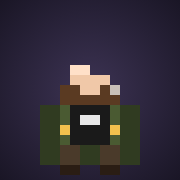
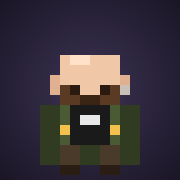
Luca: cabeça careca completa e olhos visíveis
Claude-Session: https://claude.ai/code/session_01YBA9s8XnYJneddHbd6xUF3

Changed region(s): [[0.2778, 0.3056, 0.7222, 0.5278], [0.4444, 0.5278, 0.5556, 0.5833], [0.3889, 0.4722, 0.4444, 0.5278]]

diff --git a/js/pessoas/21-amigos-criadores.js b/js/pessoas/21-amigos-criadores.js
@@ -150,12 +150,14 @@ const CREW_LOOKS = {
       acc: "nenhum",
       extra: (dir) => {
         const B = "#5a3a22";
-        if (dir === "up") return [[5, 5, 6, 1, "#e0b898"]];
+        const S = "#f0c8a8";
+        const head = [[5, 4, 6, 2, S], [5, 6, 1, 2, S], [10, 6, 1, 2, S], [4, 6, 1, 2, "#e0b090"], [11, 6, 1, 2, "#e0b090"]];
+        if (dir === "up") return head.concat([[5, 6, 6, 3, S], [7, 4, 2, 1, "#ffe0c8"]]);
         const side = dir === "left" || dir === "right";
-        const beard = side ? [[7, 8, 4, 1, B], [8, 9, 3, 1, B], [8, 7, 2, 1, B]] : [[5, 8, 6, 1, B], [6, 9, 4, 1, B], [6, 7, 1, 1, B], [9, 7, 1, 1, B], [5, 7, 1, 1, B], [10, 7, 1, 1, B]];
-        const shine = side ? [[8, 5, 2, 1, "#ffe0c8"]] : [[6, 5, 2, 1, "#ffe0c8"], [10, 7, 1, 1, "#c9c0b8"]];
+        const beard = side ? [[7, 8, 4, 1, B], [8, 9, 3, 1, B]] : [[5, 8, 6, 1, B], [6, 9, 4, 1, B], [5, 7, 1, 1, B], [10, 7, 1, 1, B], [7, 8, 2, 1, "#3a2414"]];
+        const shine = side ? [[8, 4, 2, 1, "#ffe0c8"]] : [[6, 4, 2, 1, "#ffe0c8"], [11, 7, 1, 1, "#c9c0b8"]];
         const shirt = side ? [] : [[6, 9, 4, 4, "#1a1a1a"], [7, 10, 2, 1, "#e8e8e8"]];
-        return [...beard, ...shine, ...shirt];
+        return [...head, ...beard, ...shine, ...shirt];
       },
     },
   },
